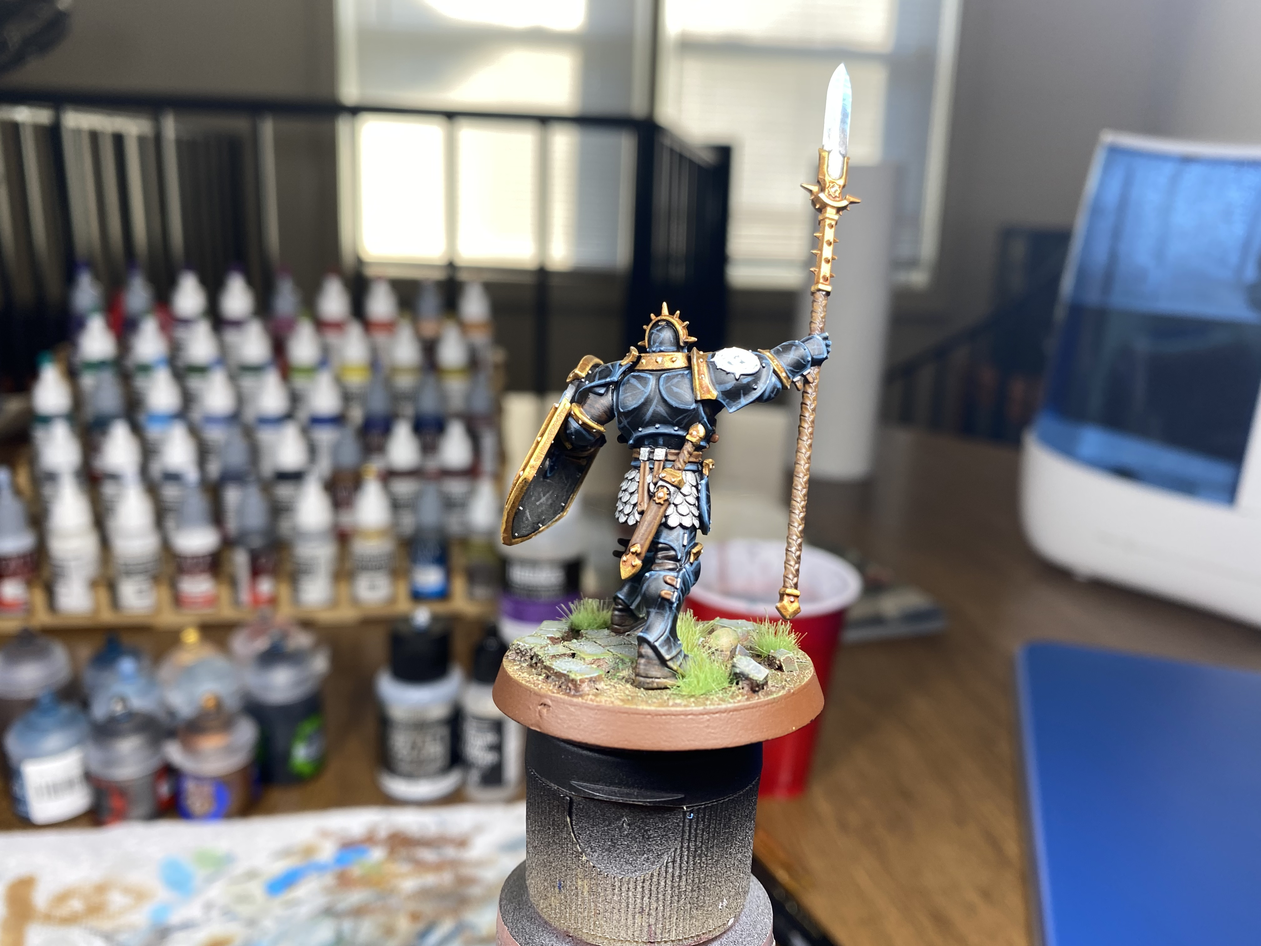
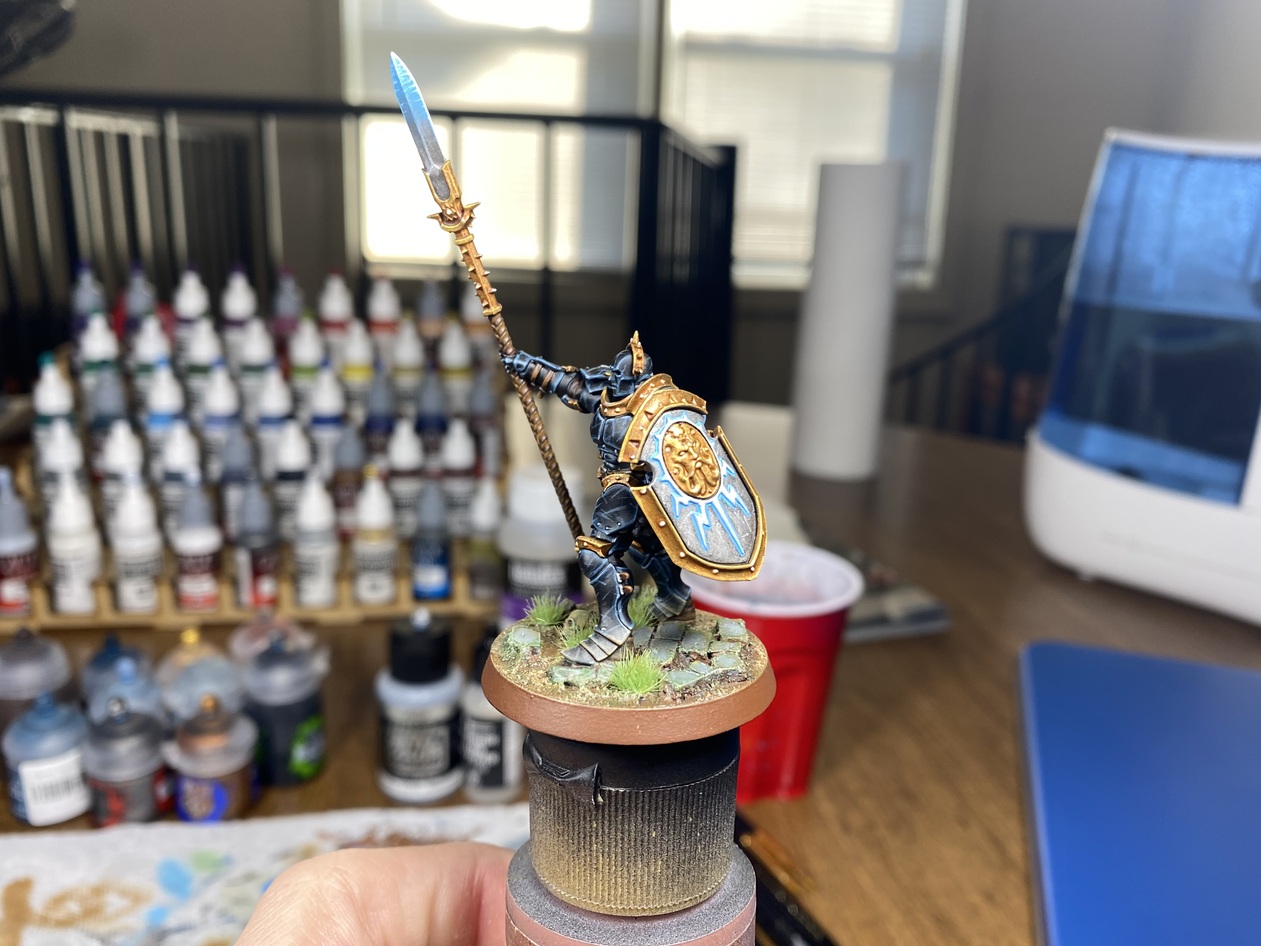
Fix missing image

diff --git a/post/2021-12-02/index.html b/post/2021-12-02/index.html
@@ -1,1 +1,1 @@
-<!DOCTYPE html><html lang="en"><head><meta charset="utf-8"><title>Necrominis - Black Stormcast Eternals Vindictor</title><link rel="shortcut icon" type="image/png" href="https://necrominis.github.io/images/logos/necrominis-logo.png"/><link rel="stylesheet" href="https://necrominis.github.io/styles.css"></head><body><section id="navbar" class="menu button-container"><a class="button logo" href="https://necrominis.github.io/"><img class="icon" src="https://necrominis.github.io/images/logos/necrominis-logo.png"></a><a class="button " href="https://necrominis.github.io/">Home</a><a class="button " href="https://necrominis.github.io/gallery/">Gallery</a><a class="button " href="https://necrominis.github.io/paints/">My Paints</a><a class="button " href="https://necrominis.github.io/supplies/">My Supplies</a></section><section id="page-cover" style="background-image: url(https://necrominis.github.io/images/covers/necrominis-cover.png);"></section><section id="modal" onclick="closeModal()"><span class="close" onclick="closeModal()">&times;</span><img id="modal-content" src="https://necrominis.github.io/images/covers/necrominis-cover.png"></section><section id="article" class="double-width"><section id="title-header"><a href="https://necrominis.github.io/"><img class="icon" src="https://necrominis.github.io/images/logos/necrominis-logo.png"></a><h1 class="title">Black Stormcast Eternals Vindictor</h1><div class="br-1-4"></div><hr></section><div class="br-section"></div><div class="column-container"><div class="column-item-2"><section id="photos" class="slideshow"><div class="slides"><div class="slide fade"><img class="modal-able" ondblclick="openModal(this)" src="https://necrominis.github.io/images/posts/necrominis-2021-12-02-raw-1.jpeg"></div><div class="slide fade"><img class="modal-able" ondblclick="openModal(this)" src="https://necrominis.github.io/images/posts/necrominis-2021-12-02-raw-2.jpeg"></div><div class="slide fade"><img class="modal-able" ondblclick="openModal(this)" src="https://necrominis.github.io/images/posts/necrominis-2021-12-02-raw-3.jpeg"></div><div class="slide fade"><img class="modal-able" ondblclick="openModal(this)" src="https://necrominis.github.io/images/posts/necrominis-missing-image.jpg"></div><div class="previous" onclick="changeSlide(-1)"><i class="arrow left"></i></div><div class="next" onclick="changeSlide(1)"><i class="arrow right"></i></div><div class="dots"><span class="dot" onclick="setSlide(1)"></span><span class="dot" onclick="setSlide(2)"></span><span class="dot" onclick="setSlide(3)"></span><span class="dot" onclick="setSlide(4)"></span></div></div></section><div class="br-mid-section"></div><section id="properties"><details class="toggle highlighted"><summary>Details</summary><div class="toggle-container"><table><tbody><tr><th><img class="icon inline", src="https://necrominis.github.io/images/icons/necrominis-created-property-icon-grey.png">Created</th><td><time id="created-property">December 2, 2021</time></td></tr><tr><th><img class="icon inline", src="https://necrominis.github.io/images/icons/necrominis-tags-property-icon-grey.png">Tags</th><td id="tags-property"><div class="button-container inline"><a class="button yellow active" href="https://necrominis.github.io/gallery/">Warhammer: Age of Sigmar</a><a class="button green active" href="https://necrominis.github.io/gallery/">Fantasy</a><a class="button brown active" href="https://necrominis.github.io/gallery/">Tabletop</a></div></td></tr><tr><th><img class="icon inline", src="https://necrominis.github.io/images/icons/necrominis-manufacturers-property-icon-grey.png">Manufacturer(s)</th><td id="manufacturers-property"><div class="button-container inline"><a class="button yellow active" href="#">Games Workshop</a></div></td></tr><tr><th><img class="icon inline", src="https://necrominis.github.io/images/icons/necrominis-models-property-icon-grey.png">Model(s)</th><td><a href="https://www.games-workshop.com/en-US/Getting-Started-With-Age-Of-Sigmar-Eng-2021">Stormcast Eternals Vindicator</a></td></tr></tbody></table></div></details></section><div class="br-mid-section"></div><section id="paints-used" class="paints-used"><details class="toggle highlighted"><summary>Paints Used</summary><div class="toggle-container"><p class="paint-used"><a href="https://acrylicosvallejo.com/en/product/hobby/model-color-en/off-white-70820/"><span class="paint-icon-container"><img class="icon inline" style="background-color: #ebebe1;" src="https://necrominis.github.io/images/paint-icons/necrominis-blank-paint-icon.png"></span><span class="underline">Vallejo / Model Color / Off-White</span></a></p><p class="paint-used"><a href="https://acrylicosvallejo.com/en/product/hobby/model-color-en/neutral-grey-70992/"><span class="paint-icon-container"><img class="icon inline" style="background-color: #69707a;" src="https://necrominis.github.io/images/paint-icons/necrominis-blank-paint-icon.png"></span><span class="underline">Vallejo / Model Color / Neutral Grey</span></a></p><p class="paint-used"><a href="https://acrylicosvallejo.com/en/product/hobby/model-color-en/black-70950/"><span class="paint-icon-container"><img class="icon inline" style="background-color: #000000;" src="https://necrominis.github.io/images/paint-icons/necrominis-blank-paint-icon.png"></span><span class="underline">Vallejo / Model Color / Black</span></a></p><p class="paint-used"><a href="https://acrylicosvallejo.com/en/product/hobby/model-color-en/flat-brown-70984/"><span class="paint-icon-container"><img class="icon inline" style="background-color: #5e483b;" src="https://necrominis.github.io/images/paint-icons/necrominis-blank-paint-icon.png"></span><span class="underline">Vallejo / Model Color / Flat Brown</span></a></p><p class="paint-used"><a href="https://acrylicosvallejo.com/en/product/hobby/game-color-en/beasty-brown-72043/"><span class="paint-icon-container"><img class="icon inline" style="background-color: #76563d;" src="https://necrominis.github.io/images/paint-icons/necrominis-blank-paint-icon.png"></span><span class="underline">Vallejo / Game Color / Beasty Brown</span></a></p><p class="paint-used"><a href="https://acrylicosvallejo.com/en/product/hobby/model-color-en/flat-green-70968/"><span class="paint-icon-container"><img class="icon inline" style="background-color: #485c41;" src="https://necrominis.github.io/images/paint-icons/necrominis-blank-paint-icon.png"></span><span class="underline">Vallejo / Model Color / Flat Green</span></a></p><p class="paint-used"><a href="https://acrylicosvallejo.com/en/product/hobby/model-color-en/deep-sky-blue-70844/"><span class="paint-icon-container"><img class="icon inline" style="background-color: #42afda;" src="https://necrominis.github.io/images/paint-icons/necrominis-blank-paint-icon.png"></span><span class="underline">Vallejo / Model Color / Deep Sky Blue</span></a></p><p class="paint-used"><a href="https://www.games-workshop.com/en-US/Layer-Thunderhawk-Blue-2019s"><span class="paint-icon-container"><img class="icon inline" style="background-color: #396a70;" src="https://necrominis.github.io/images/paint-icons/necrominis-blank-paint-icon.png"></span><span class="underline">Citadel / Layer / Thunderhawk Blue</span></a></p><p class="paint-used"><a href="https://www.games-workshop.com/en-US/Layer-Thunderhawk-Blue-2019"><span class="paint-icon-container"><img class="icon inline" style="background-color: #396a70;" src="https://necrominis.github.io/images/paint-icons/necrominis-blank-paint-icon.png"></span><span class="underline">Citadel / Base / Incubi Darkness</span></a></p><hr><p class="paint-used"><a href="https://acrylicosvallejo.com/en/product/hobby/metal-color-en/aluminium-77701/"><span class="paint-icon-container"><img class="icon inline" style="background-color: #f8f8f8;" src="https://necrominis.github.io/images/paint-icons/necrominis-blank-paint-icon.png"></span><span class="underline">Vallejo / Metal Color / Aluminium</span></a></p><p class="paint-used"><a href="https://www.games-workshop.com/en-US/Base-Leadbelcher-2019"><span class="paint-icon-container"><img class="icon inline" style="background-image: radial-gradient(#f0f0f0, #151e24);" src="https://necrominis.github.io/images/paint-icons/necrominis-blank-paint-icon.png"></span><span class="underline">Citadel / Base / Leadbelcher</span></a></p><p class="paint-used"><a href="https://www.games-workshop.com/en-US/Layer-Brass-Scorpion-2019s"><span class="paint-icon-container"><img class="icon inline" style="background-image: radial-gradient(#ffc266, #3d0700);" src="https://necrominis.github.io/images/paint-icons/necrominis-blank-paint-icon.png"></span><span class="underline">Citadel / Layer / Brass Scorpion</span></a></p><p class="paint-used"><a href="https://www.games-workshop.com/en-US/Layer-Auric-Armour-Gold-2019"><span class="paint-icon-container"><img class="icon inline" style="background-image: radial-gradient(#fff3c7, #b05a25);" src="https://necrominis.github.io/images/paint-icons/necrominis-blank-paint-icon.png"></span><span class="underline">Citadel / Layer / Auric Armour Gold</span></a></p><hr><p class="paint-used"><a href="https://www.games-workshop.com/en-US/Shade-Nuln-Oil-2019"><span class="paint-icon-container"><img class="icon inline" style="background-image: linear-gradient(to bottom, #dfd9d6, #101010);" src="https://necrominis.github.io/images/paint-icons/necrominis-blank-paint-icon.png"></span><span class="underline">Citadel / Shade / Nuln Oil</span></a></p><p class="paint-used"><a href="https://www.games-workshop.com/en-US/shade-Reikland-Fleshshade-2019"><span class="paint-icon-container"><img class="icon inline" style="background-image: linear-gradient(to bottom, #ffd5b7, #311908);" src="https://necrominis.github.io/images/paint-icons/necrominis-blank-paint-icon.png"></span><span class="underline">Citadel / Shade / Reikland Fleshshade</span></a></p><hr><p class="paint-used"><a href="https://www.games-workshop.com/en-US/Apothecary-White-2019"><span class="paint-icon-container"><img class="icon inline" style="background-image: linear-gradient(to right, #8fadc8, #f6fbff);" src="https://necrominis.github.io/images/paint-icons/necrominis-blank-paint-icon.png"></span><span class="underline">Citadel / Contrast / Apothecary White</span></a></p><hr><p class="paint-used"><a href="https://www.games-workshop.com/en-US/Technical-Stirland-Mud-2019"><span class="paint-icon-container"><img class="icon inline" style="" src="https://necrominis.github.io/images/paint-icons/citadel-technical-stirland-mud.png"></span><span class="underline">Citadel / Technical / Stirland Mud</span></a></p><hr><p class="paint-used"><a href="https://www.games-workshop.com/en-US/Chaos-Black-Spray-US-2020s"><span class="paint-icon-container"><img class="icon inline" style="background-color: #000000;" src="https://necrominis.github.io/images/paint-icons/necrominis-blank-paint-icon.png"></span><span class="underline">Citadel / Sprays / Chaos Black Primer</span></a></p><hr><p class="paint-used"><a href="https://www.krylon.com/en/products/clear-coatings/matte-finish-spray-coating/"><span class="paint-icon-container"><img class="icon inline" style="" src="https://necrominis.github.io/images/paint-icons/necrominis-transparent-paint-icon.png"></span><span class="underline">Krylon / Clear Coatings / Matte Finish</span></a></p><hr><p class="paint-used"><a href="https://acrylicosvallejo.com/en/product/hobby/auxiliaries-model/airbrush-flow-improver-71262/"><span class="paint-icon-container"><img class="icon inline" style="" src="https://necrominis.github.io/images/paint-icons/necrominis-transparent-paint-icon.png"></span><span class="underline">Vallejo / Auxiliaries / Flow Improver</span></a></p></div></details></section><div class="br-mid-section"></div></div><div class="column-item-2"><div class="br-section single-column-only"></div><section id="paragraphs"><p><mark class="first-paragraph">A <mark class="mini-name">Stormcast Eternals Vindicator</mark> painted black and gold.</mark></p><p>I painted this miniature partly because I liked the black and gold coloring of the <a href="https://ageofsigmar.fandom.com/wiki/Stormcast_Eternals"><i>Stormcast Eternals</i></a> army <i>Anvils of Heldenhammer</i>, but also as a black armor test for my future <i>Space Marine</i> army.</p><p>The majority of the armor is black, highlighted slightly toward light blue. This blue helped match it with the blue glow of the spear head and the shield. The glow effect on the spear head isn't as good as I would've liked, but I had to use a subpar technique for it. Being winter and having the heat on has really dried out the air in my house. Even with a humidifier I found the paint drying very fast, often before even touching my brush to the model. This meant that glazing the standard gradient-based glow effects wouldn't work (I tested it on a spare mini and it didn't work). Therefore the glow effect was a mix of dry-brushing and edge-highlighting.</p><p>The metal parts were simply metallic paints and some washes. I got to test my new white contrast paint on the white details on the shoulder pads. The leather parts were my favorite technique of two browns and a wash.</p><p>The base was actually really fun to make here. I tried to go for a ruined brick road or building that's in the process of being reclaimed by nature. I broke and scratched some <a href="https://www.greenstuffworld.com/en/model-bricks/319-model-bricks-grey-x500.html?search_query=model+bricks&results=6"><i>Green Stuff World</i> ceramic bricks</a>, and then applied some <i>Stirland Mud</i> for texture. Finally, I added some <a href="https://acrylicosvallejo.com/en/product/hobby/scenery-en/wild-tuft-green-sc406/"><i>Vallejo</i> grass tufts</a>.</p><p>All-in-all, the miniature was a little hard to paint, due to the very low humidity, but adding flow improver to my paints helped a little. I think the black armor turned out great, the glow effects were good but not amazing, and the gold and silver armor was simple, but could've been improved a little, provided the paint played nicely.</p></section><div class="br-section"></div></div></div><div class="br-section"></div><hr></section><div class="br-page-end"></div><script type="text/javascript" src="https://necrominis.github.io/script.js"></script></body></html>
+<!DOCTYPE html><html lang="en"><head><meta charset="utf-8"><title>Necrominis - Black Stormcast Eternals Vindictor</title><link rel="shortcut icon" type="image/png" href="https://necrominis.github.io/images/logos/necrominis-logo.png"/><link rel="stylesheet" href="https://necrominis.github.io/styles.css"></head><body><section id="navbar" class="menu button-container"><a class="button logo" href="https://necrominis.github.io/"><img class="icon" src="https://necrominis.github.io/images/logos/necrominis-logo.png"></a><a class="button " href="https://necrominis.github.io/">Home</a><a class="button " href="https://necrominis.github.io/gallery/">Gallery</a><a class="button " href="https://necrominis.github.io/paints/">My Paints</a><a class="button " href="https://necrominis.github.io/supplies/">My Supplies</a></section><section id="page-cover" style="background-image: url(https://necrominis.github.io/images/covers/necrominis-cover.png);"></section><section id="modal" onclick="closeModal()"><span class="close" onclick="closeModal()">&times;</span><img id="modal-content" src="https://necrominis.github.io/images/covers/necrominis-cover.png"></section><section id="article" class="double-width"><section id="title-header"><a href="https://necrominis.github.io/"><img class="icon" src="https://necrominis.github.io/images/logos/necrominis-logo.png"></a><h1 class="title">Black Stormcast Eternals Vindictor</h1><div class="br-1-4"></div><hr></section><div class="br-section"></div><div class="column-container"><div class="column-item-2"><section id="photos" class="slideshow"><div class="slides"><div class="slide fade"><img class="modal-able" ondblclick="openModal(this)" src="https://necrominis.github.io/images/posts/necrominis-2021-12-02-raw-1.jpeg"></div><div class="slide fade"><img class="modal-able" ondblclick="openModal(this)" src="https://necrominis.github.io/images/posts/necrominis-2021-12-02-raw-2.jpeg"></div><div class="slide fade"><img class="modal-able" ondblclick="openModal(this)" src="https://necrominis.github.io/images/posts/necrominis-2021-12-02-raw-3.jpeg"></div><div class="slide fade"><img class="modal-able" ondblclick="openModal(this)" src="https://necrominis.github.io/images/posts/necrominis-2021-12-02-raw-4.jpeg"></div><div class="previous" onclick="changeSlide(-1)"><i class="arrow left"></i></div><div class="next" onclick="changeSlide(1)"><i class="arrow right"></i></div><div class="dots"><span class="dot" onclick="setSlide(1)"></span><span class="dot" onclick="setSlide(2)"></span><span class="dot" onclick="setSlide(3)"></span><span class="dot" onclick="setSlide(4)"></span></div></div></section><div class="br-mid-section"></div><section id="properties"><details class="toggle highlighted"><summary>Details</summary><div class="toggle-container"><table><tbody><tr><th><img class="icon inline", src="https://necrominis.github.io/images/icons/necrominis-created-property-icon-grey.png">Created</th><td><time id="created-property">December 2, 2021</time></td></tr><tr><th><img class="icon inline", src="https://necrominis.github.io/images/icons/necrominis-tags-property-icon-grey.png">Tags</th><td id="tags-property"><div class="button-container inline"><a class="button yellow active" href="https://necrominis.github.io/gallery/">Warhammer: Age of Sigmar</a><a class="button green active" href="https://necrominis.github.io/gallery/">Fantasy</a><a class="button brown active" href="https://necrominis.github.io/gallery/">Tabletop</a></div></td></tr><tr><th><img class="icon inline", src="https://necrominis.github.io/images/icons/necrominis-manufacturers-property-icon-grey.png">Manufacturer(s)</th><td id="manufacturers-property"><div class="button-container inline"><a class="button yellow active" href="#">Games Workshop</a></div></td></tr><tr><th><img class="icon inline", src="https://necrominis.github.io/images/icons/necrominis-models-property-icon-grey.png">Model(s)</th><td><a href="https://www.games-workshop.com/en-US/Getting-Started-With-Age-Of-Sigmar-Eng-2021">Stormcast Eternals Vindicator</a></td></tr></tbody></table></div></details></section><div class="br-mid-section"></div><section id="paints-used" class="paints-used"><details class="toggle highlighted"><summary>Paints Used</summary><div class="toggle-container"><p class="paint-used"><a href="https://acrylicosvallejo.com/en/product/hobby/model-color-en/off-white-70820/"><span class="paint-icon-container"><img class="icon inline" style="background-color: #ebebe1;" src="https://necrominis.github.io/images/paint-icons/necrominis-blank-paint-icon.png"></span><span class="underline">Vallejo / Model Color / Off-White</span></a></p><p class="paint-used"><a href="https://acrylicosvallejo.com/en/product/hobby/model-color-en/neutral-grey-70992/"><span class="paint-icon-container"><img class="icon inline" style="background-color: #69707a;" src="https://necrominis.github.io/images/paint-icons/necrominis-blank-paint-icon.png"></span><span class="underline">Vallejo / Model Color / Neutral Grey</span></a></p><p class="paint-used"><a href="https://acrylicosvallejo.com/en/product/hobby/model-color-en/black-70950/"><span class="paint-icon-container"><img class="icon inline" style="background-color: #000000;" src="https://necrominis.github.io/images/paint-icons/necrominis-blank-paint-icon.png"></span><span class="underline">Vallejo / Model Color / Black</span></a></p><p class="paint-used"><a href="https://acrylicosvallejo.com/en/product/hobby/model-color-en/flat-brown-70984/"><span class="paint-icon-container"><img class="icon inline" style="background-color: #5e483b;" src="https://necrominis.github.io/images/paint-icons/necrominis-blank-paint-icon.png"></span><span class="underline">Vallejo / Model Color / Flat Brown</span></a></p><p class="paint-used"><a href="https://acrylicosvallejo.com/en/product/hobby/game-color-en/beasty-brown-72043/"><span class="paint-icon-container"><img class="icon inline" style="background-color: #76563d;" src="https://necrominis.github.io/images/paint-icons/necrominis-blank-paint-icon.png"></span><span class="underline">Vallejo / Game Color / Beasty Brown</span></a></p><p class="paint-used"><a href="https://acrylicosvallejo.com/en/product/hobby/model-color-en/flat-green-70968/"><span class="paint-icon-container"><img class="icon inline" style="background-color: #485c41;" src="https://necrominis.github.io/images/paint-icons/necrominis-blank-paint-icon.png"></span><span class="underline">Vallejo / Model Color / Flat Green</span></a></p><p class="paint-used"><a href="https://acrylicosvallejo.com/en/product/hobby/model-color-en/deep-sky-blue-70844/"><span class="paint-icon-container"><img class="icon inline" style="background-color: #42afda;" src="https://necrominis.github.io/images/paint-icons/necrominis-blank-paint-icon.png"></span><span class="underline">Vallejo / Model Color / Deep Sky Blue</span></a></p><p class="paint-used"><a href="https://www.games-workshop.com/en-US/Layer-Thunderhawk-Blue-2019s"><span class="paint-icon-container"><img class="icon inline" style="background-color: #396a70;" src="https://necrominis.github.io/images/paint-icons/necrominis-blank-paint-icon.png"></span><span class="underline">Citadel / Layer / Thunderhawk Blue</span></a></p><p class="paint-used"><a href="https://www.games-workshop.com/en-US/Layer-Thunderhawk-Blue-2019"><span class="paint-icon-container"><img class="icon inline" style="background-color: #396a70;" src="https://necrominis.github.io/images/paint-icons/necrominis-blank-paint-icon.png"></span><span class="underline">Citadel / Base / Incubi Darkness</span></a></p><hr><p class="paint-used"><a href="https://acrylicosvallejo.com/en/product/hobby/metal-color-en/aluminium-77701/"><span class="paint-icon-container"><img class="icon inline" style="background-color: #f8f8f8;" src="https://necrominis.github.io/images/paint-icons/necrominis-blank-paint-icon.png"></span><span class="underline">Vallejo / Metal Color / Aluminium</span></a></p><p class="paint-used"><a href="https://www.games-workshop.com/en-US/Base-Leadbelcher-2019"><span class="paint-icon-container"><img class="icon inline" style="background-image: radial-gradient(#f0f0f0, #151e24);" src="https://necrominis.github.io/images/paint-icons/necrominis-blank-paint-icon.png"></span><span class="underline">Citadel / Base / Leadbelcher</span></a></p><p class="paint-used"><a href="https://www.games-workshop.com/en-US/Layer-Brass-Scorpion-2019s"><span class="paint-icon-container"><img class="icon inline" style="background-image: radial-gradient(#ffc266, #3d0700);" src="https://necrominis.github.io/images/paint-icons/necrominis-blank-paint-icon.png"></span><span class="underline">Citadel / Layer / Brass Scorpion</span></a></p><p class="paint-used"><a href="https://www.games-workshop.com/en-US/Layer-Auric-Armour-Gold-2019"><span class="paint-icon-container"><img class="icon inline" style="background-image: radial-gradient(#fff3c7, #b05a25);" src="https://necrominis.github.io/images/paint-icons/necrominis-blank-paint-icon.png"></span><span class="underline">Citadel / Layer / Auric Armour Gold</span></a></p><hr><p class="paint-used"><a href="https://www.games-workshop.com/en-US/Shade-Nuln-Oil-2019"><span class="paint-icon-container"><img class="icon inline" style="background-image: linear-gradient(to bottom, #dfd9d6, #101010);" src="https://necrominis.github.io/images/paint-icons/necrominis-blank-paint-icon.png"></span><span class="underline">Citadel / Shade / Nuln Oil</span></a></p><p class="paint-used"><a href="https://www.games-workshop.com/en-US/shade-Reikland-Fleshshade-2019"><span class="paint-icon-container"><img class="icon inline" style="background-image: linear-gradient(to bottom, #ffd5b7, #311908);" src="https://necrominis.github.io/images/paint-icons/necrominis-blank-paint-icon.png"></span><span class="underline">Citadel / Shade / Reikland Fleshshade</span></a></p><hr><p class="paint-used"><a href="https://www.games-workshop.com/en-US/Apothecary-White-2019"><span class="paint-icon-container"><img class="icon inline" style="background-image: linear-gradient(to right, #8fadc8, #f6fbff);" src="https://necrominis.github.io/images/paint-icons/necrominis-blank-paint-icon.png"></span><span class="underline">Citadel / Contrast / Apothecary White</span></a></p><hr><p class="paint-used"><a href="https://www.games-workshop.com/en-US/Technical-Stirland-Mud-2019"><span class="paint-icon-container"><img class="icon inline" style="" src="https://necrominis.github.io/images/paint-icons/citadel-technical-stirland-mud.png"></span><span class="underline">Citadel / Technical / Stirland Mud</span></a></p><hr><p class="paint-used"><a href="https://www.games-workshop.com/en-US/Chaos-Black-Spray-US-2020s"><span class="paint-icon-container"><img class="icon inline" style="background-color: #000000;" src="https://necrominis.github.io/images/paint-icons/necrominis-blank-paint-icon.png"></span><span class="underline">Citadel / Sprays / Chaos Black Primer</span></a></p><hr><p class="paint-used"><a href="https://www.krylon.com/en/products/clear-coatings/matte-finish-spray-coating/"><span class="paint-icon-container"><img class="icon inline" style="" src="https://necrominis.github.io/images/paint-icons/necrominis-transparent-paint-icon.png"></span><span class="underline">Krylon / Clear Coatings / Matte Finish</span></a></p><hr><p class="paint-used"><a href="https://acrylicosvallejo.com/en/product/hobby/auxiliaries-model/airbrush-flow-improver-71262/"><span class="paint-icon-container"><img class="icon inline" style="" src="https://necrominis.github.io/images/paint-icons/necrominis-transparent-paint-icon.png"></span><span class="underline">Vallejo / Auxiliaries / Flow Improver</span></a></p></div></details></section><div class="br-mid-section"></div></div><div class="column-item-2"><div class="br-section single-column-only"></div><section id="paragraphs"><p><mark class="first-paragraph">A <mark class="mini-name">Stormcast Eternals Vindicator</mark> painted black and gold.</mark></p><p>I painted this miniature partly because I liked the black and gold coloring of the <a href="https://ageofsigmar.fandom.com/wiki/Stormcast_Eternals"><i>Stormcast Eternals</i></a> army <i>Anvils of Heldenhammer</i>, but also as a black armor test for my future <i>Space Marine</i> army.</p><p>The majority of the armor is black, highlighted slightly toward light blue. This blue helped match it with the blue glow of the spear head and the shield. The glow effect on the spear head isn't as good as I would've liked, but I had to use a subpar technique for it. Being winter and having the heat on has really dried out the air in my house. Even with a humidifier I found the paint drying very fast, often before even touching my brush to the model. This meant that glazing the standard gradient-based glow effects wouldn't work (I tested it on a spare mini and it didn't work). Therefore the glow effect was a mix of dry-brushing and edge-highlighting.</p><p>The metal parts were simply metallic paints and some washes. I got to test my new white contrast paint on the white details on the shoulder pads. The leather parts were my favorite technique of two browns and a wash.</p><p>The base was actually really fun to make here. I tried to go for a ruined brick road or building that's in the process of being reclaimed by nature. I broke and scratched some <a href="https://www.greenstuffworld.com/en/model-bricks/319-model-bricks-grey-x500.html?search_query=model+bricks&results=6"><i>Green Stuff World</i> ceramic bricks</a>, and then applied some <i>Stirland Mud</i> for texture. Finally, I added some <a href="https://acrylicosvallejo.com/en/product/hobby/scenery-en/wild-tuft-green-sc406/"><i>Vallejo</i> grass tufts</a>.</p><p>All-in-all, the miniature was a little hard to paint, due to the very low humidity, but adding flow improver to my paints helped a little. I think the black armor turned out great, the glow effects were good but not amazing, and the gold and silver armor was simple, but could've been improved a little, provided the paint played nicely.</p></section><div class="br-section"></div></div></div><div class="br-section"></div><hr></section><div class="br-page-end"></div><script type="text/javascript" src="https://necrominis.github.io/script.js"></script></body></html>

diff --git a/.builder/printer.py b/.builder/printer.py
@@ -7,7 +7,7 @@ from colorama import Fore, Back, Style
 # Initialize the printer.
 # Call this before any print statements.
 def init_printer() -> None:
-	print(Fore.RED, end='')
+	print(Fore.LIGHTRED_EX, end='')
 
 
 
@@ -34,7 +34,7 @@ def _reset() -> None:
 
 # Print normal message in white.
 def print_normal(message: str = '') -> None:
-	print(Fore.WHITE + str(message))
+	print(Fore.LIGHTWHITE_EX + str(message))
 	_reset()
 
 
@@ -43,7 +43,7 @@ def print_normal(message: str = '') -> None:
 
 # Print good message in green.
 def print_good(message: str = '') -> None:
-	print(Fore.GREEN + str(message))
+	print(Fore.LIGHTGREEN_EX + str(message))
 	_reset()
 
 
@@ -51,10 +51,10 @@ def print_good(message: str = '') -> None:
 
 # Print warning message in yellow, with a WARNING prefix.
 def print_warning(message: str, detail: str = '') -> None:
-	styled_detail = Fore.YELLOW + Style.BRIGHT + detail
-	print(Fore.YELLOW + Style.BRIGHT + 'WARNING: ', end='')
+	styled_detail = Fore.LIGHTYELLOW_EX + Style.BRIGHT + detail
+	print(Fore.LIGHTYELLOW_EX + Style.BRIGHT + 'WARNING: ', end='')
 	_reset()
-	print(Fore.YELLOW + str(message) + styled_detail)
+	print(Fore.LIGHTYELLOW_EX + str(message) + styled_detail)
 	_reset()
 
 
@@ -62,7 +62,7 @@ def print_warning(message: str, detail: str = '') -> None:
 
 # Print bad message in red.
 def print_bad(message: str = '') -> None:
-	print(Fore.RED + str(message))
+	print(Fore.LIGHTRED_EX + str(message))
 	_reset()
 
 
@@ -70,10 +70,10 @@ def print_bad(message: str = '') -> None:
 
 # Print error message in red, with an ERROR prefix.
 def print_error(message: str, detail: str = '') -> None:
-	styled_detail = Fore.RED + Style.BRIGHT + detail
-	print(Fore.RED + Style.BRIGHT + 'ERROR: ', end='')
+	styled_detail = Fore.LIGHTRED_EX + Style.BRIGHT + detail
+	print(Fore.LIGHTRED_EX + Style.BRIGHT + 'ERROR: ', end='')
 	_reset()
-	print(Fore.RED + str(message) + styled_detail)
+	print(Fore.LIGHTRED_EX + str(message) + styled_detail)
 	_reset()
 
 
@@ -81,10 +81,10 @@ def print_error(message: str, detail: str = '') -> None:
 
 # Print fault message in red, with an FAULT prefix.
 def print_fault(message: str, detail: str = '') -> None:
-	styled_detail = Fore.RED + Style.BRIGHT + detail
-	print(Fore.RED + Style.BRIGHT + '/!\\ FAULT: ', end='')
+	styled_detail = Fore.LIGHTRED_EX + Style.BRIGHT + detail
+	print(Fore.LIGHTRED_EX + Style.BRIGHT + '/!\\ FAULT: ', end='')
 	_reset()
-	print(Fore.RED + str(message) + styled_detail)
+	print(Fore.LIGHTRED_EX + str(message) + styled_detail)
 	_reset()
 
 
@@ -93,7 +93,7 @@ def print_fault(message: str, detail: str = '') -> None:
 
 # Print section-start message in blue.
 def print_start(message: str = '') -> None:
-	print(Fore.BLUE + Style.BRIGHT + str(message) + '...')
+	print(Fore.LIGHTBLUE_EX + Style.BRIGHT + str(message) + '...')
 	_reset()
 
 
@@ -102,7 +102,7 @@ def print_start(message: str = '') -> None:
 
 # Print section-end message in cyan.
 def print_end(message: str = '') -> None:
-	print(Fore.CYAN + Style.BRIGHT + '...' + str(message))
+	print(Fore.LIGHTCYAN_EX + Style.BRIGHT + '...' + str(message))
 	_reset()
 
 

diff --git a/.builder/main.py b/.builder/main.py
@@ -155,4 +155,7 @@ if __name__ == '__main__':
 	while memory_used > power:
 		memory_used /= power
 		factor += 1
-	print_normal(f"Process completed and used {round(memory_used, 2)} {labels[factor]} of RAM.")
+	if factor < 3:
+		print_good(f"Process completed and used {round(memory_used, 2)} {labels[factor]} of RAM.")
+	else:
+		print_bad(f"Process completed and used {round(memory_used, 2)} {labels[factor]} of RAM.")
